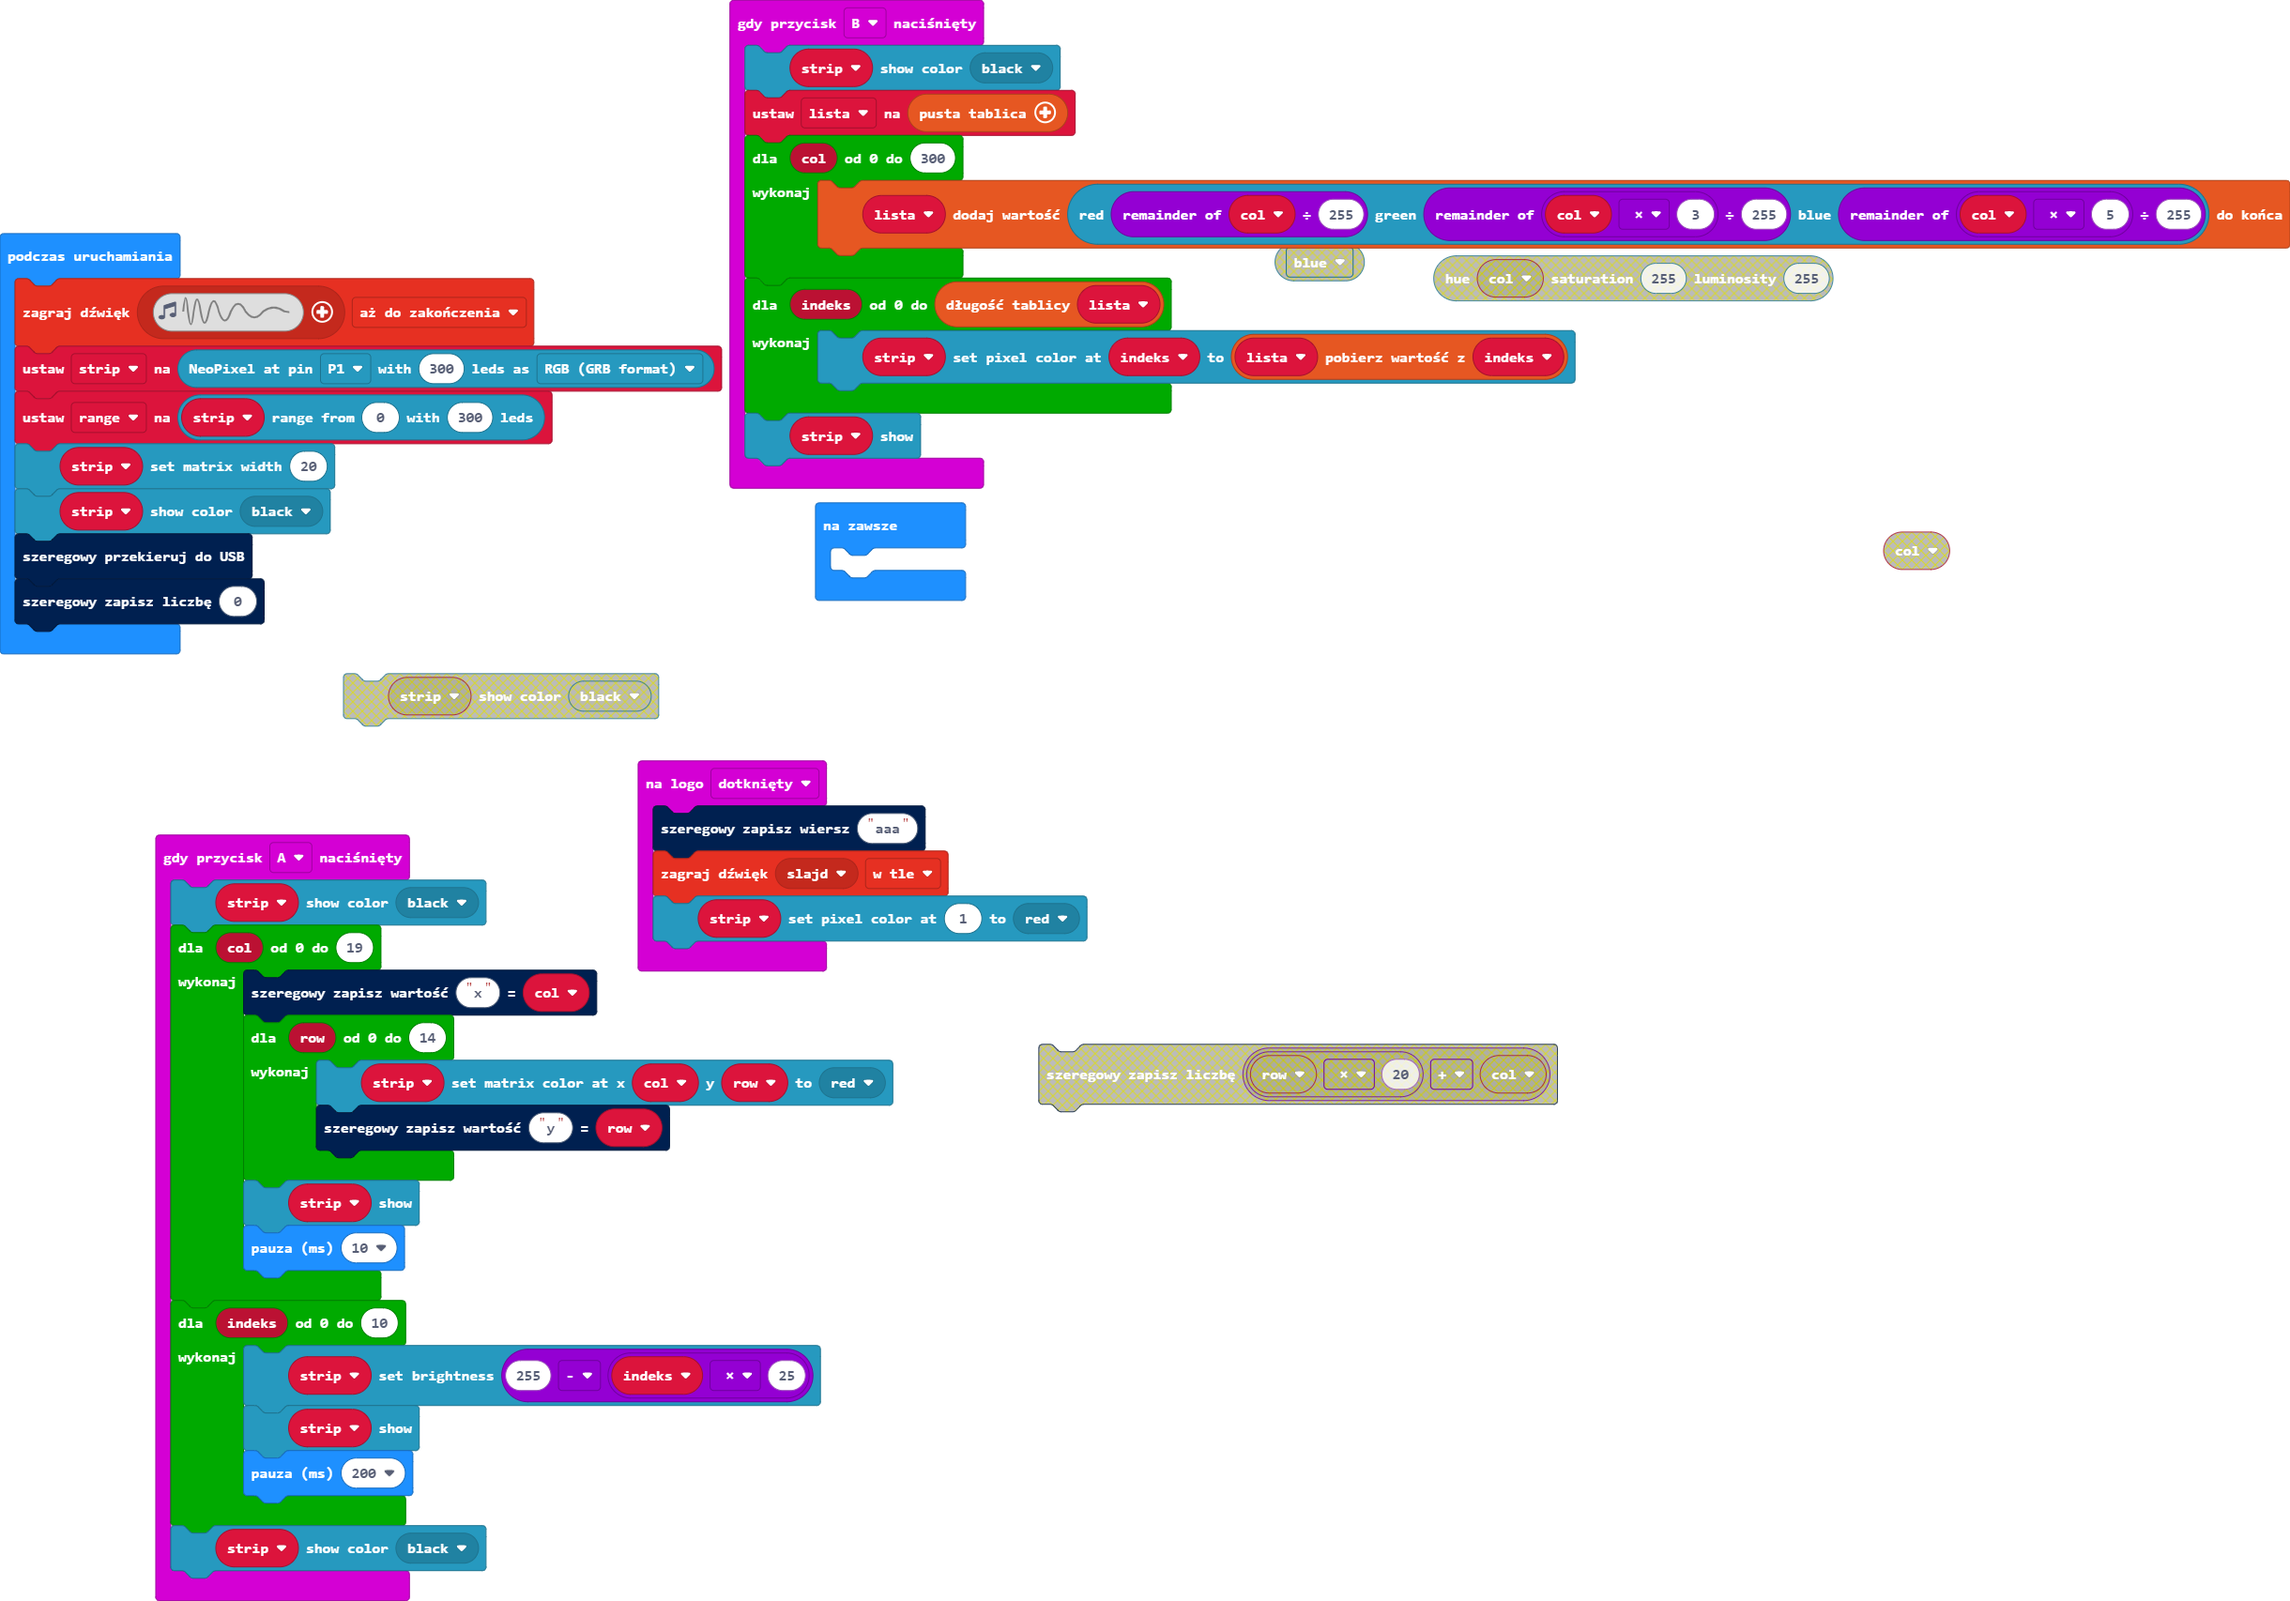
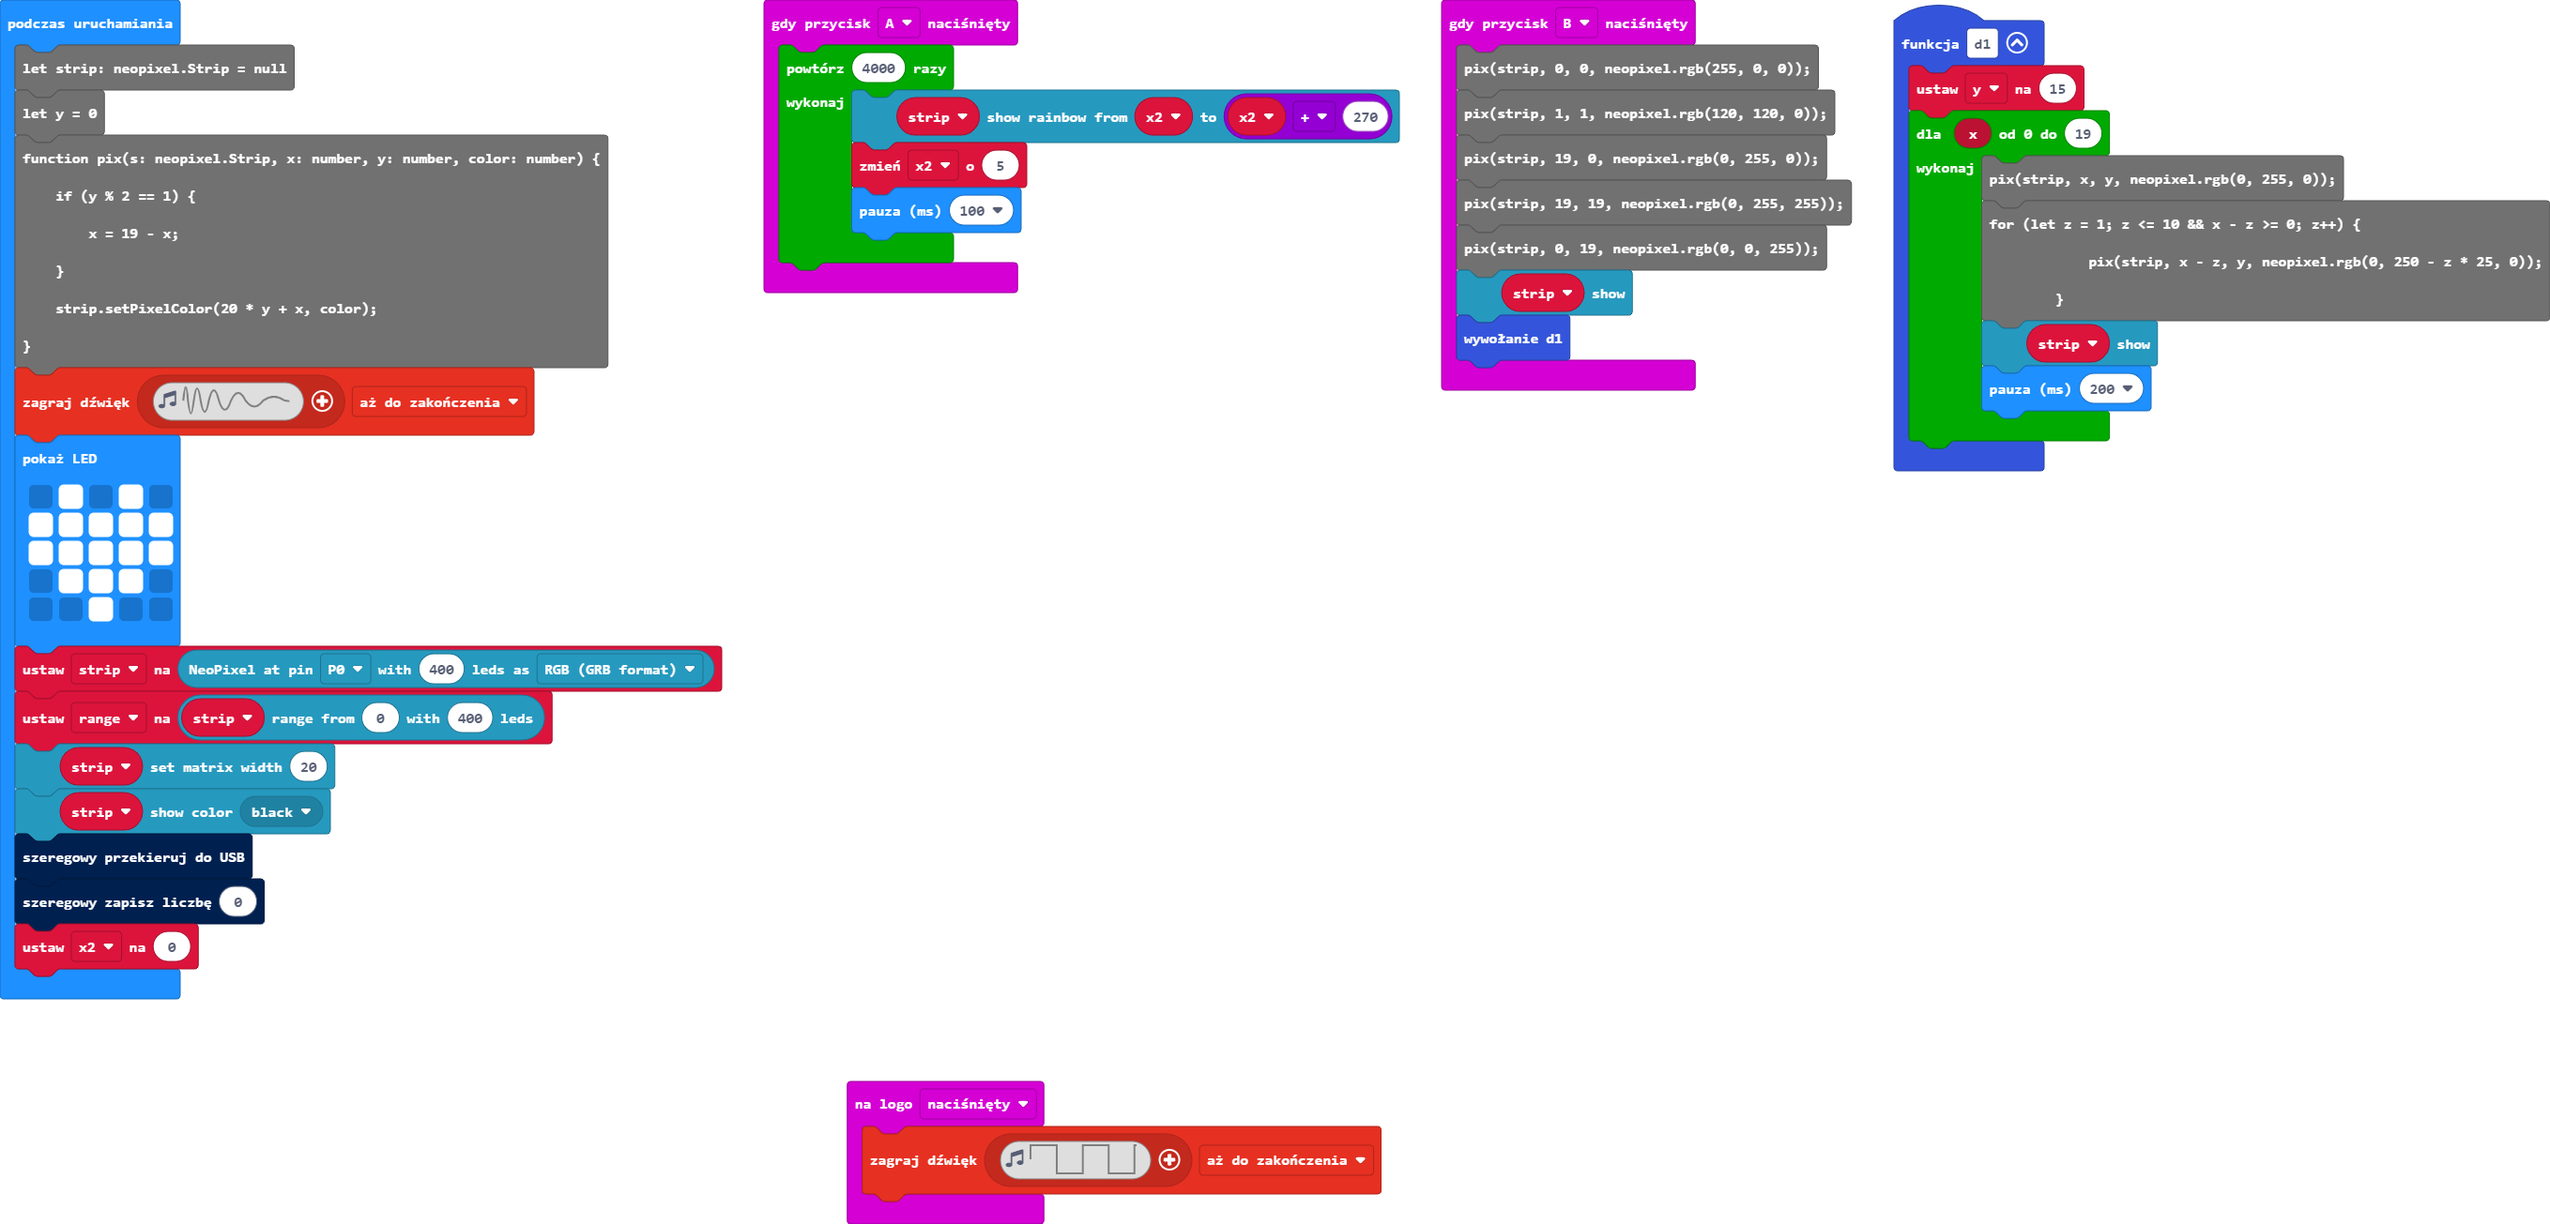
rainbow646

diff --git a/main.ts b/main.ts
@@ -1,46 +1,54 @@
-input.onLogoEvent(TouchButtonEvent.Touched, function () {
-    serial.writeLine("aaa")
-    music.playSoundEffect(music.builtinSoundEffect(soundExpression.slide), SoundExpressionPlayMode.InBackground)
-    strip.setPixelColor(1, neopixel.colors(NeoPixelColors.Red))
-})
-input.onButtonPressed(Button.A, function () {
-    strip.showColor(neopixel.colors(NeoPixelColors.Black))
-    for (let col = 0; col <= 19; col++) {
-        serial.writeValue("x", col)
-        for (let row = 0; row <= 14; row++) {
-            strip.setMatrixColor(col, row, neopixel.colors(NeoPixelColors.Red))
-            serial.writeValue("y", row)
+function d1 () {
+    y = 15
+    for (let x = 0; x <= 19; x++) {
+        pix(strip, x, y, neopixel.rgb(0, 255, 0));
+for (let z = 1; z <= 10 && x - z >= 0; z++) {
+            pix(strip, x - z, y, neopixel.rgb(0, 250 - z * 25, 0));
         }
-        strip.show()
-        basic.pause(10)
-    }
-    for (let indeks = 0; indeks <= 10; indeks++) {
-        strip.setBrightness(255 - indeks * 25)
-        strip.show()
+strip.show()
         basic.pause(200)
     }
-    strip.showColor(neopixel.colors(NeoPixelColors.Black))
+}
+input.onButtonPressed(Button.A, function () {
+    for (let index = 0; index < 4000; index++) {
+        strip.showRainbow(x2, x2 + 270)
+        x2 += 5
+        basic.pause(100)
+    }
+})
+input.onLogoEvent(TouchButtonEvent.Pressed, function () {
+    music.playSoundEffect(music.createSoundEffect(WaveShape.Square, 400, 600, 255, 255, 100, SoundExpressionEffect.Warble, InterpolationCurve.Linear), SoundExpressionPlayMode.UntilDone)
 })
 input.onButtonPressed(Button.B, function () {
-    strip.showColor(neopixel.colors(NeoPixelColors.Black))
-    lista = []
-    for (let col = 0; col <= 300; col++) {
-        lista.push(neopixel.rgb(col % 255, col * 3 % 255, col * 5 % 255))
-    }
-    for (let indeks = 0; indeks <= lista.length; indeks++) {
-        strip.setPixelColor(indeks, lista[indeks])
-    }
-    strip.show()
+    pix(strip, 0, 0, neopixel.rgb(255, 0, 0));
+pix(strip, 1, 1, neopixel.rgb(120, 120, 0));
+pix(strip, 19, 0, neopixel.rgb(0, 255, 0));
+pix(strip, 19, 19, neopixel.rgb(0, 255, 255));
+pix(strip, 0, 19, neopixel.rgb(0, 0, 255));
+strip.show()
+    d1()
 })
-let lista: number[] = []
+let x2 = 0
 let strip: neopixel.Strip = null
+let y = 0
+function pix(s: neopixel.Strip, x: number, y: number, color: number) {
+    if (y % 2 == 1) {
+        x = 19 - x;
+    }
+    strip.setPixelColor(20 * y + x, color);
+}
 music.playSoundEffect(music.createSoundEffect(WaveShape.Sine, 5000, 0, 255, 0, 500, SoundExpressionEffect.None, InterpolationCurve.Linear), SoundExpressionPlayMode.UntilDone)
-strip = neopixel.create(DigitalPin.P1, 300, NeoPixelMode.RGB)
-let range = strip.range(0, 300)
+basic.showLeds(`
+    . # . # .
+    # # # # #
+    # # # # #
+    . # # # .
+    . . # . .
+    `)
+strip = neopixel.create(DigitalPin.P0, 400, NeoPixelMode.RGB)
+let range = strip.range(0, 400)
 strip.setMatrixWidth(20)
 strip.showColor(neopixel.colors(NeoPixelColors.Black))
 serial.redirectToUSB()
 serial.writeNumber(0)
-basic.forever(function () {
-	
-})
+x2 = 0
